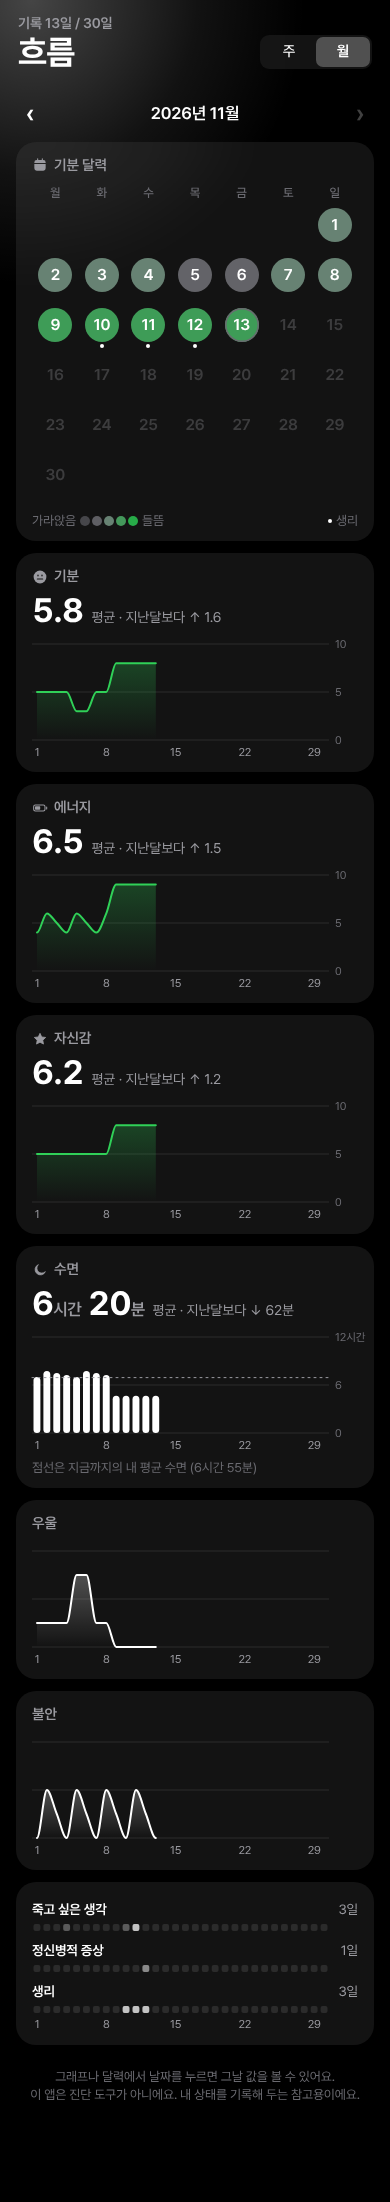
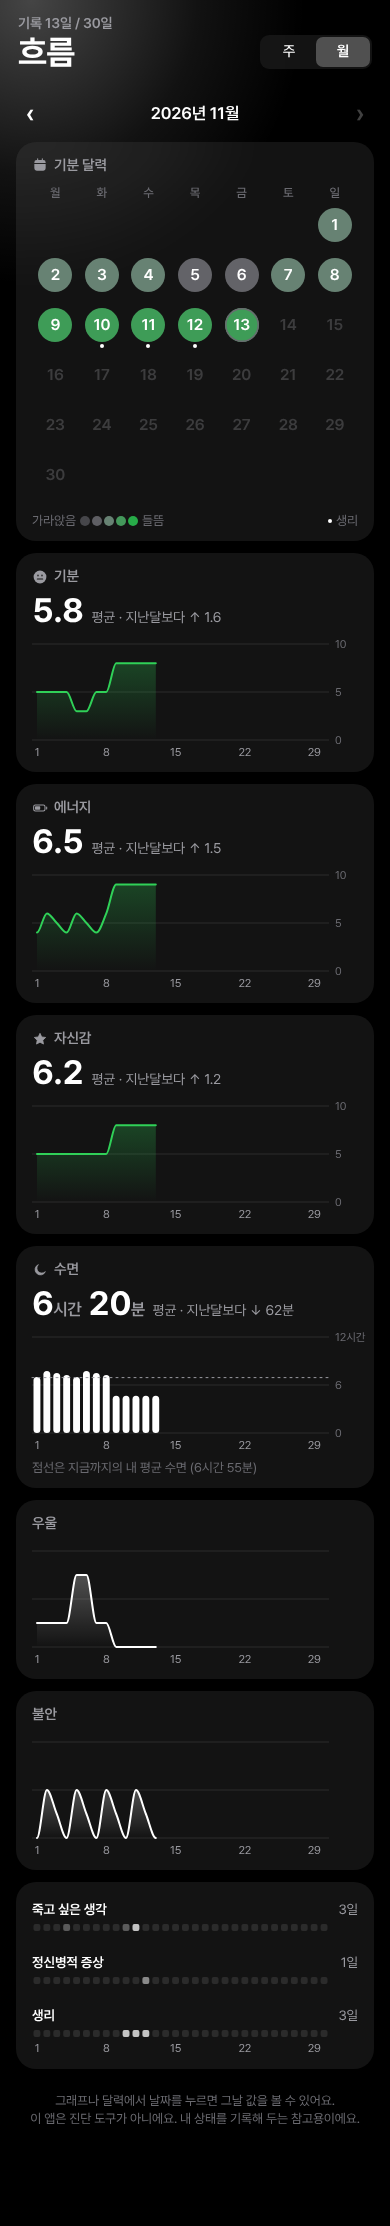
Tidemark: drop the comparison list from insights; more room between the day-square rows
The list of comparisons that went against the usual expectation is removed at the user's request, along with the calculation behind it and its phrases. The insight tab is now the 7-day reading, medication changes, and the notes and AI rows; with too few records it explains what is needed and offers the example. In trends, the rows for thoughts of dying, psychotic symptoms and period sit further apart.

Claude-Session: https://claude.ai/code/session_01Du4KAy7crrN67i73oW7iBF

diff --git a/mood/js/i18n.js b/mood/js/i18n.js
@@ -116,37 +116,16 @@ const DICT = {
   '들뜬 상태가 며칠째 이어지고 있어요. 진료 때 이야기해 보세요.': 'An elevated state has continued for several days. Consider mentioning it at your appointment.',
   '우울한 날이 2주 가까이 이어지고 있어요. 진료 때 이야기해 보세요.': 'Low days have continued for nearly two weeks. Consider mentioning it at your appointment.',
   '그런 날': 'Those days',
-  '다른 날': 'Other days',
   '먹은 날': 'Taken',
   '안 먹은 날': 'Not taken',
   '최근 7일': 'Last 7 days',
-  '적게 잔 날': 'Short nights',
-  '다른 요일': 'Other days',
-  '{0}요일': '{0}',
-  '6시간보다 적게 잔 날은 에너지가 {0} 낮았어요.': 'On days after less than 6 hours of sleep, energy was {0} lower.',
-  '6시간보다 적게 잔 날은 에너지가 {0} 높았어요.': 'On days after less than 6 hours of sleep, energy was {0} higher.',
-  '에너지가 높았던 날은 전날 밤에 {0} 덜 잤어요.': 'Before high-energy days you slept {0} less.',
-  '에너지가 높았던 날은 전날 밤에 {0} 더 잤어요.': 'Before high-energy days you slept {0} more.',
-  '기분이 가라앉은 날은 전날 밤에 {0} 덜 잤어요.': 'Before low-mood days you slept {0} less.',
-  '기분이 가라앉은 날은 전날 밤에 {0} 더 잤어요.': 'Before low-mood days you slept {0} more.',
-  '일어났을 때 피곤했던 날은 {0} 덜 잤어요.': 'On days you woke up tired you had slept {0} less.',
-  '일어났을 때 피곤했던 날은 {0} 더 잤어요.': 'On days you woke up tired you had slept {0} more.',
-  '약을 안 먹은 날은 기분이 {0} 낮았어요.': 'On days without medication, mood was {0} lower.',
-  '약을 안 먹은 날은 기분이 {0} 높았어요.': 'On days without medication, mood was {0} higher.',
-  '안정제·수면제를 먹은 날 밤에는 {0} 덜 잤어요.': 'On nights with a sedative or sleep medication you slept {0} less.',
-  '안정제·수면제를 먹은 날 밤에는 {0} 더 잤어요.': 'On nights with a sedative or sleep medication you slept {0} more.',
-  '카페인을 많이 마신 날 밤에는 {0} 덜 잤어요.': 'On nights after a lot of caffeine you slept {0} less.',
-  '카페인을 많이 마신 날 밤에는 {0} 더 잤어요.': 'On nights after a lot of caffeine you slept {0} more.',
-  '카페인을 많이 마신 날은 식욕이 {0} 낮았어요.': 'On high-caffeine days, appetite was {0} lower.',
-  '카페인을 많이 마신 날은 식욕이 {0} 높았어요.': 'On high-caffeine days, appetite was {0} higher.',
-  '생리 중인 날은 기분이 {0} 낮았어요.': 'On period days, mood was {0} lower.',
-  '생리 중인 날은 기분이 {0} 높았어요.': 'On period days, mood was {0} higher.',
-  '기분이 가장 낮은 요일은 {0}이에요.': 'Mood is lowest on {0}.',
   '더 보기': 'More',
   'AI에게 물어볼 글 복사 (최근 4주)': 'Copy text to ask an AI (last 4 weeks)',
   '인사이트': 'Insights',
   '기록 항목': 'Items to log',
   '진단명': 'Diagnoses',
+  '최근 7일 중 4일 이상 적으면 여기에 그 주를 읽은 내용이 나와요.': 'Once you log at least 4 of the last 7 days, a reading of that week appears here.',
+  '만들어 낸 예시 기록이에요. 내 기록이 아니고 저장되지 않아요.': 'This is a made-up example log. It is not yours and is not saved.',
   '최근 7일은 경조증·조증 때의 모습과 많이 겹쳐요.': 'The last 7 days overlap a lot with what hypomania or mania looks like.',
   '최근 7일은 우울 삽화 때의 모습과 많이 겹쳐요.': 'The last 7 days overlap a lot with what a depressive episode looks like.',
   '최근 7일은 기분과 에너지가 높은 날이 많아요.': 'Mood and energy were high on many of the last 7 days.',
@@ -172,7 +151,6 @@ const DICT = {
   '가라앉은 시기의 {0}은 조울증의 우울에서 조금 더 흔해요. 진료 때 이야기해 보세요.': '{0} during a low stretch is somewhat more common in bipolar depression. Mention it at your appointment.',
   '불안과 잠 문제가 함께 늘었어요. 정신병적 증상에 앞서 오기도 해요.': 'Anxiety and sleep problems have both increased. This sometimes comes before psychotic symptoms.',
   '진단이 아니에요. 진료 때 보여 주며 이야기해 보세요.': 'Not a diagnosis. Show it at your appointment and talk it through.',
-  '누구에게나 흔한 것은 뺐어요. 원인이나 진단을 뜻하지 않아요.': 'Things common to most people are left out. This does not indicate a cause or a diagnosis.',
   '{0}가지': '{0}',
   '자신감이 크게 높아짐': 'Much higher confidence',
   '우울한 기분': 'Depressed mood',
@@ -190,14 +168,6 @@ const DICT = {
   '식욕이 늘어남': 'more appetite',
   '정신병적 증상': 'psychotic symptoms',
   '해당하는 것을 여러 개 골라도 돼요. 인사이트에서 무엇을 먼저 보여 줄지에만 참고해요. 진단명에 없는 모습이 기록에 보이면 그것도 그대로 알려 줘요. 기록 항목이나 적어 둔 기록은 바뀌지 않아요.': 'Choose every one that applies. They only guide what the insights show first. If your log shows something outside the chosen diagnoses, the insights still say so. Items and logged records are not changed.',
-  '각성제를 먹은 날은 에너지가 {0} 낮았어요.': 'On days with a stimulant, energy was {0} lower.',
-  '각성제를 먹은 날은 에너지가 {0} 높았어요.': 'On days with a stimulant, energy was {0} higher.',
-  '각성제를 먹은 날 밤에는 {0} 덜 잤어요.': 'On nights after a stimulant you slept {0} less.',
-  '각성제를 먹은 날 밤에는 {0} 더 잤어요.': 'On nights after a stimulant you slept {0} more.',
-  '각성제를 먹은 날은 식욕이 {0} 낮았어요.': 'On days with a stimulant, appetite was {0} lower.',
-  '각성제를 먹은 날은 식욕이 {0} 높았어요.': 'On days with a stimulant, appetite was {0} higher.',
-  '약을 안 먹은 날은 정신병적 증상이 {0}가지 적었어요.': 'On days without medication there were {0} fewer psychotic symptoms.',
-  '약을 안 먹은 날은 정신병적 증상이 {0}가지 많았어요.': 'On days without medication there were {0} more psychotic symptoms.',
   '조울증': 'Bipolar disorder',
   '우울증': 'Depression',
   '불안장애': 'Anxiety disorder',
@@ -215,10 +185,6 @@ const DICT = {
   '이 항목을 목록에서 지울까요? 이미 적어 둔 값은 기록에 남아 있지만 화면에는 안 보여요.': 'Remove this item from the list? Values already logged stay in your records but will no longer be shown.',
   '내가 따로 적고 싶은 것을 만들 수 있어요. 했음 · 안 했음은 누르기만 하면 되고, 0~10 정도는 슬라이더로, 숫자는 단위와 함께 적어요.': 'Create your own things to log. “Done · not done” is a single tap, the 0–10 scale is a slider, and numbers are entered with a unit.',
   '“{0}” 한 날이 {1}일 있었어요': 'There were {1} days with “{0}”',
-  '“{1}” 한 다음 날은 기분이 {0} 낮았어요.': 'The day after “{1}”, mood was {0} lower.',
-  '“{1}” 한 다음 날은 기분이 {0} 높았어요.': 'The day after “{1}”, mood was {0} higher.',
-  '“{1}” 한 날 밤에는 {0} 덜 잤어요.': 'On nights after “{1}” you slept {0} less.',
-  '“{1}” 한 날 밤에는 {0} 더 잤어요.': 'On nights after “{1}” you slept {0} more.',
   '들뜬 시기': 'Elevated',
   '가라앉은 시기': 'Low',
   '평소': 'Usual',
@@ -228,9 +194,6 @@ const DICT = {
   '뒤 {0}일': '{0} days after',
   '우울이 보통 이상': 'Depression moderate+',
   '불안이 보통 이상': 'Anxiety moderate+',
-  '흔한 예상과 다르게 나온 것': 'Where your log differs from the usual expectation',
-  '예시 기록에서 흔한 예상과 다르게 나온 것': 'Where the example log differs from the usual expectation',
-  '아직 없어요. 흔한 예상대로 나온 것은 새로운 정보가 아니라서 여기에 넣지 않아요.': 'Nothing yet. Findings that match the usual expectation are not new information, so they are left out.',
   '환청': 'Hearing voices',
   '헛것이 보임': 'Seeing things',
   '누가 해치려는 느낌': 'Feeling someone means harm',
@@ -252,24 +215,6 @@ const DICT = {
   '카페인이 평소보다 많았어요': 'Caffeine was higher than usual',
   '불안이 보통 이상인 날이 {0}일 있었어요': 'Anxiety was moderate or above on {0} days',
   '생리 중이었어요': 'You were on your period',
-  '우울이 보통 이상인 날은 전날 밤에 {0} 덜 잤어요.': 'Before days with moderate or higher depression you slept {0} less.',
-  '우울이 보통 이상인 날은 전날 밤에 {0} 더 잤어요.': 'Before days with moderate or higher depression you slept {0} more.',
-  '불안이 보통 이상인 날은 전날 밤에 {0} 덜 잤어요.': 'Before days with moderate or higher anxiety you slept {0} less.',
-  '불안이 보통 이상인 날은 전날 밤에 {0} 더 잤어요.': 'Before days with moderate or higher anxiety you slept {0} more.',
-  '정신병적 증상이 있던 날은 전날 밤에 {0} 덜 잤어요.': 'Before days with psychotic symptoms you slept {0} less.',
-  '정신병적 증상이 있던 날은 전날 밤에 {0} 더 잤어요.': 'Before days with psychotic symptoms you slept {0} more.',
-  '죽고 싶은 생각이 있던 날은 전날 밤에 {0} 덜 잤어요.': 'Before days with thoughts of dying you slept {0} less.',
-  '죽고 싶은 생각이 있던 날은 전날 밤에 {0} 더 잤어요.': 'Before days with thoughts of dying you slept {0} more.',
-  '정신병적 증상이 있던 날은 에너지가 {0} 낮았어요.': 'On days with psychotic symptoms, energy was {0} lower.',
-  '정신병적 증상이 있던 날은 에너지가 {0} 높았어요.': 'On days with psychotic symptoms, energy was {0} higher.',
-  '정신병적 증상이 있던 날은 기분이 {0} 낮았어요.': 'On days with psychotic symptoms, mood was {0} lower.',
-  '정신병적 증상이 있던 날은 기분이 {0} 높았어요.': 'On days with psychotic symptoms, mood was {0} higher.',
-  '불안이 보통 이상인 날은 우울이 {0}단계 낮았어요.': 'On days with moderate or higher anxiety, depression was {0} levels lower.',
-  '불안이 보통 이상인 날은 우울이 {0}단계 높았어요.': 'On days with moderate or higher anxiety, depression was {0} levels higher.',
-  '정신병적 증상이 있던 날은 불안이 {0}단계 낮았어요.': 'On days with psychotic symptoms, anxiety was {0} levels lower.',
-  '정신병적 증상이 있던 날은 불안이 {0}단계 높았어요.': 'On days with psychotic symptoms, anxiety was {0} levels higher.',
-  '불안이 보통 이상인 날은 카페인이 {0} 적었어요.': 'On days with moderate or higher anxiety, caffeine was {0} lower.',
-  '불안이 보통 이상인 날은 카페인이 {0} 많았어요.': 'On days with moderate or higher anxiety, caffeine was {0} higher.',
   '최근 7일은 들뜬 모습과 가라앉은 모습이 함께 보여요.': 'The last 7 days show both elevated and low features.',
   '부작용': 'Side effects',
   '졸림': 'Sleepy',
@@ -302,11 +247,8 @@ const DICT = {
   '적어 두면 “진료 후” 기간으로 지난 진료부터의 흐름을 볼 수 있어요.': 'Once saved, the “Since visit” range shows everything from your last appointment.',
   '무엇이 바뀌었는지 적어 주세요': 'Please write what changed',
   '안 쓰는 항목을 끄면 기록·오늘·흐름·진료 화면에서 안 보여요. 이미 적어 둔 값은 지워지지 않고, 다시 켜면 그대로 나와요.': 'Turn off items you don’t use and they disappear from the log, today, trends and clinic screens. Values you already logged are kept and come back when you turn the item on again.',
-  '기록이 {0}일 이상 쌓이면 패턴을 찾아 보여 드려요. 지금은 {1}일이에요.': 'Patterns appear once you have {0} or more days logged. You have {1} so far.',
   '예시로 미리 보기': 'Preview with an example',
   '예시 닫기': 'Close the example',
-  '만들어 낸 예시 기록이에요. 내 기록이 아니고 저장되지 않아요. 내 기록이 쌓이면 이 자리에 내 숫자가 나와요.': 'This is a made-up example log. It is not yours and is not saved. Your own numbers appear here once you have logged enough.',
-  '아직 뚜렷한 패턴이 보이지 않아요. 기록이 더 쌓이면 다시 살펴볼게요.': 'No clear pattern yet. This will update as you log more.',
   '복사한 글을 Claude나 ChatGPT 같은 AI 앱에 붙여 넣으면 기록 전체를 읽고 패턴을 정리해 줘요. 붙여 넣는 순간 그 기록은 해당 AI 서비스로 전송돼요.': 'Paste the copied text into an AI app such as Claude or ChatGPT and it can read the whole log and summarise patterns. Once pasted, that log is sent to that AI service.',
   '복사했어요. AI 앱에 붙여 넣으세요': 'Copied. Paste it into an AI app',
   '몬스터': 'Monster',

diff --git a/mood/js/analysis.js b/mood/js/analysis.js
@@ -1,14 +1,12 @@
 // 초기 신호 · 인사이트 · 진료용 요약 계산 (전부 이 폰 안에서)
-import { SIGNS, STIMULANTS, cafMg, customText, drinkText, fxName, fxNames, psyName, psyNames } from './constants.js';
-import { WD, addDays, durText, md, parse, today } from './dates.js';
+import { SIGNS, cafMg, customText, drinkText, fxName, fxNames, psyName, psyNames } from './constants.js';
+import { addDays, durText, md, parse, today } from './dates.js';
 import { F, T } from './i18n.js';
 import { aided, medsFor, medsText } from './meds.js';
 import { customDefs, db, usesOn } from './store.js';
 
 // ---------- 초기 신호 · 인사이트 (전부 이 폰 안에서 계산) ----------
 export const avg = (a) => (a.length ? a.reduce((x, y) => x + y, 0) / a.length : null);
-// 인사이트가 나오기 시작하는 기록 일수
-export const INSIGHT_MIN_DAYS = 5;
 
 export function signals() {
   const out = [], t = today();
@@ -230,107 +228,6 @@ export function medChanges() {
         [T('우울이 보통 이상'), count(b, (e) => e.dep >= 2), count(a, (e) => e.dep >= 2)], [T('불안이 보통 이상'), count(b, (e) => e.anx >= 2), count(a, (e) => e.anx >= 2)]],
     };
   }).filter(Boolean).reverse();
-}
-
-// 인사이트: 두 묶음의 평균을 견준 관찰들. 차이가 큰 것부터 나온다.
-// 누구에게나 흔한 쪽으로 나온 것(카페인을 많이 마시면 덜 잔다 등)은 새로운 정보가 아니라서 뺀다:
-// say의 세 번째 값이 "흔히 예상되는 쪽"(0 = 앞 문장, 1 = 뒤 문장)이고, 기록이 그 반대로 나왔을 때만 넣는다. 예상이 따로 없는 것은 그대로 넣는다.
-//   { text: 한 줄 결론, a: [이름, 값, 날 수], b: [이름, 값, 날 수] }
-// 차이가 뚜렷할 때만 넣는다. entries를 주면 그 기록으로 계산한다 (예시 기록 미리 보기).
-// 약에 관한 비교는 내 약 기록을 보기 때문에 내 기록일 때만 넣는다.
-export function insights(entries = db.entries) {
-  const all = Object.keys(entries).sort().map((k) => entries[k]), out = [], mine = entries === db.entries;
-  if (all.length < INSIGHT_MIN_DAYS) return out;
-  const mean = (list, key) => avg(list.map((e) => e[key]));
-  const dur = (m) => durText(Math.round(m)), num = (x) => x.toFixed(1);
-  // 두 묶음(각 min일 이상)의 평균이 gap 이상 차이 나면 넣는다. say는 [앞쪽이 낮을 때 문장, 높을 때 문장], {0}에 차이가 들어간다.
-  // unit은 "한 칸"의 크기(수면 60분, 점수 1점)로, 서로 다른 항목의 차이를 같은 잣대로 줄 세울 때 쓴다.
-  // dx: 이 비교가 특히 관련 있는 진단명들. 사용자가 고른 진단명과 겹치면 순서를 앞으로 당긴다 (1.5배).
-  const chosen = usesOn(), boost = (dx) => (dx && dx.some((k) => chosen.includes(k)) ? 1.5 : 1);
-  const compare = (key, a, b, labels, { min = 3, gap, fmt, unit, dx }, say) => {
-    if (a.length < min || b.length < min) return;
-    const x = mean(a, key), y = mean(b, key), d = Math.abs(x - y);
-    if (d < gap || say[2] === (x < y ? 0 : 1)) return;
-    out.push({ text: F(say[x < y ? 0 : 1], fmt(d)), a: [labels[0], fmt(x), a.length], b: [labels[1], fmt(y), b.length], weight: d / unit * boost(dx) });
-  };
-  const sleep = { gap: 20, fmt: dur, unit: 60 }, score = { gap: 0.8, fmt: num, unit: 1 }, days = [T('그런 날'), T('다른 날')];
-  // 항목을 따로따로 적을 수 있어서 빈 값(null)이 섞여 있다. null은 비교에서 0처럼 굴기 때문에, 값이 있는 날만 골라서 나눈다.
-  const has = (key) => (e) => e[key] != null;
-  const sl = all.filter(has('sleepMin')), slE = sl.filter(has('energy')), slM = sl.filter(has('mood')), withMood = all.filter(has('mood'));
-  const night = (e) => entries[addDays(e.date, 1)];   // 그날 밤의 잠과 다음 날 기분은 다음 날 기록에 있다
-
-  // 잠과 에너지·기분
-  compare('energy', slE.filter((e) => e.sleepMin < 360), slE.filter((e) => e.sleepMin >= 360), [T('적게 잔 날'), T('다른 날')], { ...score, dx: ['bipolar'] },
-    ['6시간보다 적게 잔 날은 에너지가 {0} 낮았어요.', '6시간보다 적게 잔 날은 에너지가 {0} 높았어요.', 0]);
-  compare('sleepMin', slE.filter((e) => e.energy >= 7), slE.filter((e) => e.energy < 7), days, { ...sleep, dx: ['bipolar'] },
-    ['에너지가 높았던 날은 전날 밤에 {0} 덜 잤어요.', '에너지가 높았던 날은 전날 밤에 {0} 더 잤어요.', 1]);
-  compare('sleepMin', slM.filter((e) => e.mood <= 3), slM.filter((e) => e.mood > 3), days, { ...sleep, dx: ['depression', 'bipolar'] },
-    ['기분이 가라앉은 날은 전날 밤에 {0} 덜 잤어요.', '기분이 가라앉은 날은 전날 밤에 {0} 더 잤어요.', 0]);
-  compare('sleepMin', sl.filter((e) => e.tired), sl.filter((e) => !e.tired), days, sleep,
-    ['일어났을 때 피곤했던 날은 {0} 덜 잤어요.', '일어났을 때 피곤했던 날은 {0} 더 잤어요.', 0]);
-  // 진단명을 골랐을 때만 넣는 비교들 (내 기록일 때만)
-  if (mine && chosen.includes('adhd') && db.meds.some((m) => STIMULANTS.includes(m.name))) {
-    const took = (e) => medsFor(e.date).some((m) => STIMULANTS.includes(m.name)), pair = [T('먹은 날'), T('안 먹은 날')], adhd = { dx: ['adhd'] };
-    compare('energy', ...[all.filter(has('energy'))].flatMap((l) => [l.filter(took), l.filter((e) => !took(e))]), pair, { ...score, ...adhd },
-      ['각성제를 먹은 날은 에너지가 {0} 낮았어요.', '각성제를 먹은 날은 에너지가 {0} 높았어요.']);
-    const nights = all.filter((e) => night(e) && night(e).sleepMin != null);
-    compare('sleepMin', nights.filter(took).map(night), nights.filter((e) => !took(e)).map(night), pair, { ...sleep, ...adhd },
-      ['각성제를 먹은 날 밤에는 {0} 덜 잤어요.', '각성제를 먹은 날 밤에는 {0} 더 잤어요.']);
-    compare('appetite', ...[all.filter(has('appetite'))].flatMap((l) => [l.filter(took), l.filter((e) => !took(e))]), pair, { ...score, gap: 1, ...adhd },
-      ['각성제를 먹은 날은 식욕이 {0} 낮았어요.', '각성제를 먹은 날은 식욕이 {0} 높았어요.']);
-  }
-  if (mine && chosen.includes('psychosis') && db.meds.length) {
-    compare('psy', all.filter((e) => !medsFor(e.date).length), all.filter((e) => medsFor(e.date).length), [T('안 먹은 날'), T('먹은 날')], { gap: 0.3, fmt: num, unit: 0.5, dx: ['psychosis'] },
-      ['약을 안 먹은 날은 정신병적 증상이 {0}가지 적었어요.', '약을 안 먹은 날은 정신병적 증상이 {0}가지 많았어요.']);
-  }
-  // 약
-  if (mine && db.meds.length) {
-    compare('mood', withMood.filter((e) => !medsFor(e.date).length), withMood.filter((e) => medsFor(e.date).length), [T('안 먹은 날'), T('먹은 날')], score,
-      ['약을 안 먹은 날은 기분이 {0} 낮았어요.', '약을 안 먹은 날은 기분이 {0} 높았어요.', 0]);
-    compare('sleepMin', sl.filter(aided), sl.filter((e) => !aided(e)), [T('먹은 날'), T('안 먹은 날')], { ...sleep, min: 2 },
-      ['안정제·수면제를 먹은 날 밤에는 {0} 덜 잤어요.', '안정제·수면제를 먹은 날 밤에는 {0} 더 잤어요.', 1]);
-  }
-  // 카페인 · 술 · 운동 · 생리
-  const caf = all.filter((e) => e.caffeine != null && night(e) && night(e).sleepMin != null);
-  compare('sleepMin', caf.filter((e) => e.caffeine >= 7).map(night), caf.filter((e) => e.caffeine < 7).map(night), days, sleep,
-    ['카페인을 많이 마신 날 밤에는 {0} 덜 잤어요.', '카페인을 많이 마신 날 밤에는 {0} 더 잤어요.', 0]);
-  const ap = all.filter((e) => e.caffeine != null && e.appetite != null);
-  compare('appetite', ap.filter((e) => e.caffeine >= 7), ap.filter((e) => e.caffeine < 7), days, { ...score, gap: 1 },
-    ['카페인을 많이 마신 날은 식욕이 {0} 낮았어요.', '카페인을 많이 마신 날은 식욕이 {0} 높았어요.', 0]);
-  // 내 항목 가운데 했음/안 했음 항목: 한 다음 날의 기분, 한 날 밤의 잠 (내 기록일 때만. 흔한 예상은 따로 두지 않는다)
-  if (mine) customDefs().filter((c) => c.type === 'check').forEach((c) => {
-    const did = (e) => !!(e.custom && e.custom[c.id]), named = (text) => F(text, '{0}', c.name);
-    const nextMood = all.filter((e) => night(e) && night(e).mood != null), nextSleep = all.filter((e) => night(e) && night(e).sleepMin != null);
-    compare('mood', nextMood.filter(did).map(night), nextMood.filter((e) => !did(e)).map(night), days, score,
-      [named('“{1}” 한 다음 날은 기분이 {0} 낮았어요.'), named('“{1}” 한 다음 날은 기분이 {0} 높았어요.')]);
-    compare('sleepMin', nextSleep.filter(did).map(night), nextSleep.filter((e) => !did(e)).map(night), days, sleep,
-      [named('“{1}” 한 날 밤에는 {0} 덜 잤어요.'), named('“{1}” 한 날 밤에는 {0} 더 잤어요.')]);
-  });
-  compare('mood', withMood.filter((e) => e.period), withMood.filter((e) => !e.period), [T('생리 중'), T('다른 날')], score,
-    ['생리 중인 날은 기분이 {0} 낮았어요.', '생리 중인 날은 기분이 {0} 높았어요.', 0]);
-  // 기분이 가장 낮은 요일 (요일마다 2일 이상 적었을 때)
-  const byDay = WD().map((name, d) => [name, withMood.filter((e) => parse(e.date).getDay() === d)]).filter(([, list]) => list.length >= 2);
-  if (byDay.length >= 4) {
-    const [name, low] = byDay.reduce((m, x) => (mean(x[1], 'mood') < mean(m[1], 'mood') ? x : m));
-    const rest = withMood.filter((e) => !low.includes(e)), d = mean(rest, 'mood') - mean(low, 'mood'), day = F('{0}요일', name);
-    if (d >= 1) out.push({ text: F('기분이 가장 낮은 요일은 {0}이에요.', day), a: [day, num(mean(low, 'mood')), low.length], b: [T('다른 요일'), num(mean(rest, 'mood')), rest.length], weight: d });
-  }
-  // 증상이 있던 날과 없던 날: 전날 밤 잠, 그리고 증상끼리 같이 움직이는지
-  const level = { gap: 0.8, fmt: num, unit: 1 };
-  const split = (list, test) => [list.filter(test), list.filter((e) => !test(e))];
-  const isDep = (e) => e.dep >= 2, isAnx = (e) => e.anx >= 2, isPsy = (e) => e.psy >= 1, isSi = (e) => e.si >= 1;
-  compare('sleepMin', ...split(sl.filter(has('dep')), isDep), days, { ...sleep, dx: ['depression', 'bipolar'] }, ['우울이 보통 이상인 날은 전날 밤에 {0} 덜 잤어요.', '우울이 보통 이상인 날은 전날 밤에 {0} 더 잤어요.']);
-  compare('sleepMin', ...split(sl.filter(has('anx')), isAnx), days, { ...sleep, dx: ['anxiety'] }, ['불안이 보통 이상인 날은 전날 밤에 {0} 덜 잤어요.', '불안이 보통 이상인 날은 전날 밤에 {0} 더 잤어요.', 0]);
-  compare('sleepMin', ...split(sl, isPsy), days, { ...sleep, dx: ['psychosis'] }, ['정신병적 증상이 있던 날은 전날 밤에 {0} 덜 잤어요.', '정신병적 증상이 있던 날은 전날 밤에 {0} 더 잤어요.', 0]);
-  compare('sleepMin', ...split(sl.filter(has('si')), isSi), days, sleep, ['죽고 싶은 생각이 있던 날은 전날 밤에 {0} 덜 잤어요.', '죽고 싶은 생각이 있던 날은 전날 밤에 {0} 더 잤어요.']);
-  const both = (a, b) => all.filter((e) => e[a] != null && e[b] != null);
-  compare('energy', ...split(all.filter(has('energy')), isPsy), days, { ...score, dx: ['psychosis'] }, ['정신병적 증상이 있던 날은 에너지가 {0} 낮았어요.', '정신병적 증상이 있던 날은 에너지가 {0} 높았어요.']);
-  compare('mood', ...split(withMood, isPsy), days, { ...score, dx: ['psychosis'] }, ['정신병적 증상이 있던 날은 기분이 {0} 낮았어요.', '정신병적 증상이 있던 날은 기분이 {0} 높았어요.']);
-  compare('dep', ...split(both('anx', 'dep'), isAnx), days, { ...level, dx: ['anxiety', 'depression'] }, ['불안이 보통 이상인 날은 우울이 {0}단계 낮았어요.', '불안이 보통 이상인 날은 우울이 {0}단계 높았어요.', 1]);
-  compare('anx', ...split(all.filter(has('anx')), isPsy), days, { ...level, dx: ['psychosis'] }, ['정신병적 증상이 있던 날은 불안이 {0}단계 낮았어요.', '정신병적 증상이 있던 날은 불안이 {0}단계 높았어요.', 1]);
-  compare('caffeine', ...split(both('anx', 'caffeine'), isAnx), days, { ...score, gap: 1, dx: ['anxiety'] }, ['불안이 보통 이상인 날은 카페인이 {0} 적었어요.', '불안이 보통 이상인 날은 카페인이 {0} 많았어요.', 1]);
-  // 차이가 큰 것부터 세 개까지만 (사용자가 짧게 보고 싶어 함)
-  return out.sort((p, q) => q.weight - p.weight).slice(0, 3);
 }
 
 // AI 앱에 붙여 넣을 수 있는 최근 4주 요약 글

diff --git a/mood/js/views/insight.js b/mood/js/views/insight.js
@@ -1,7 +1,7 @@
-// 인사이트 화면: 최근 7일을 종합해서 읽은 것(짧게), 약을 바꾼 앞뒤, 흔한 예상과 다르게 나온 비교 세 개, 메모·AI로 가는 줄.
-// 누구에게나 해당하는 뻔한 말은 넣지 않고, 길게 늘어놓지 않는다 (사용자가 지적, 2026-11-13).
+// 인사이트 화면: 최근 7일을 종합해서 읽은 것(짧게), 약을 바꾼 앞뒤, 메모·AI로 가는 줄.
+// 길게 늘어놓지 않는다: 평균끼리 견준 비교 목록은 뻔하거나 쓸모없다고 해서 뺐다 (사용자가 정함, 2026-11-13).
 // 기록이 아직 적으면 예시 기록으로 어떤 것이 나오는지 미리 볼 수 있다 (ui.insightDemo).
-import { INSIGHT_MIN_DAYS, insights, medChanges, recentState } from '../analysis.js';
+import { medChanges, recentState } from '../analysis.js';
 import { md, parse } from '../dates.js';
 import { app, esc } from '../dom.js';
 import { F, T } from '../i18n.js';
@@ -10,36 +10,26 @@ import { sampleEntries } from '../sample.js';
 import { ui } from '../state.js';
 import { db } from '../store.js';
 
-// 관찰 한 줄: 결론 문장, 그 아래에 근거인 두 평균을 작게 한 줄로
-const side = ([name, value, n]) => `${name} ${value} (${F('{0}일', n)})`;
-const compareRow = ({ text, a, b }) => `<div class="li cmp"><div class="cmp-t">${text}</div><div class="cmp-s">${side(a)} · ${side(b)}</div></div>`;
-
 const bullets = (list) => (list.length ? `<ul>${list.map((x) => `<li>${x}</li>`).join('')}</ul>` : '');
+// 표 한 줄: 첫 칸은 이름, 나머지는 값
+const tr = (cells, head) => `<div class="tr${head ? ' th' : ''}">${cells.map((c) => `<span>${c}</span>`).join('')}</div>`;
 
 export function viewInsight() {
-  const n = Object.keys(db.entries).length, mine = insights();
-  const demo = ui.insightDemo && !mine.length, list = demo ? insights(sampleEntries()) : mine;
-  const state = recentState(demo ? sampleEntries() : db.entries), changes = demo ? [] : medChanges();
-  // 표 한 줄: 첫 칸은 이름, 나머지는 값
-  const tr = (cells, head) => `<div class="tr${head ? ' th' : ''}">${cells.map((c) => `<span>${c}</span>`).join('')}</div>`;
-  const empty = `<div class="li say mut">${n < INSIGHT_MIN_DAYS ? F('기록이 {0}일 이상 쌓이면 패턴을 찾아 보여 드려요. 지금은 {1}일이에요.', INSIGHT_MIN_DAYS, n) : T('아직 뚜렷한 패턴이 보이지 않아요. 기록이 더 쌓이면 다시 살펴볼게요.')}</div>
-    <button class="li add" data-act="insightDemo">${IC.spark}&nbsp; ${T('예시로 미리 보기')}</button>`;
+  const n = Object.keys(db.entries).length, mine = recentState();
+  const demo = ui.insightDemo && !mine, state = demo ? recentState(sampleEntries()) : mine, changes = demo ? [] : medChanges();
   app.innerHTML = `
     <header class="top"><div><div class="over">${F('기록 {0}일', n)}</div><h1>${T('인사이트')}</h1></div></header>
-    ${state ? `<div class="sec">${demo ? T('예시 기록의 최근 7일') : T('최근 7일')}</div>
-    <section class="card state"><b>${state.title}</b>
+    <div class="sec">${demo ? T('예시 기록의 최근 7일') : T('최근 7일')}</div>
+    ${state ? `<section class="card state"><b>${state.title}</b>
       ${state.flow ? `<div class="flow">${state.flow}</div>` : ''}
       ${bullets(state.points)}
       ${state.lead ? `<div class="flow">${state.lead}</div>` : ''}
       ${state.notes.map((x) => `<div class="beyond">${x}</div>`).join('')}
-      <p>${T('진단이 아니에요. 진료 때 보여 주며 이야기해 보세요.')}</p></section>` : ''}
+      <p>${demo ? T('만들어 낸 예시 기록이에요. 내 기록이 아니고 저장되지 않아요.') : T('진단이 아니에요. 진료 때 보여 주며 이야기해 보세요.')}</p></section>`
+    : `<section class="card list"><div class="li say mut">${T('최근 7일 중 4일 이상 적으면 여기에 그 주를 읽은 내용이 나와요.')}</div></section>`}
+    ${mine ? '' : `<section class="card list"><button class="li add${demo ? ' dim' : ''}" data-act="insightDemo">${demo ? T('예시 닫기') : `${IC.spark}&nbsp; ${T('예시로 미리 보기')}`}</button></section>`}
     ${changes.map((c) => `<div class="sec">${F('약을 바꾼 뒤 · {0}', md(parse(c.date)))}</div>
     <section class="card tbl">${c.text ? `<div class="tbl-t">${esc(c.text)}</div>` : ''}${tr(['', T('앞 2주'), F('뒤 {0}일', c.after)], true)}${c.rows.map((r) => tr(r)).join('')}</section>`).join('')}
-    <div class="sec">${demo ? T('예시 기록에서 흔한 예상과 다르게 나온 것') : T('흔한 예상과 다르게 나온 것')}</div>
-    <section class="card list">${list.length ? list.map(compareRow).join('') : n < INSIGHT_MIN_DAYS && !demo ? empty : `<div class="li say mut">${T('아직 없어요. 흔한 예상대로 나온 것은 새로운 정보가 아니라서 여기에 넣지 않아요.')}</div>`}
-      ${demo ? `<button class="li add dim" data-act="insightDemo">${T('예시 닫기')}</button>` : ''}</section>
-    ${demo ? `<p class="secnote">${T('만들어 낸 예시 기록이에요. 내 기록이 아니고 저장되지 않아요. 내 기록이 쌓이면 이 자리에 내 숫자가 나와요.')}</p>`
-    : list.length ? `<p class="secnote">${T('누구에게나 흔한 것은 뺐어요. 원인이나 진단을 뜻하지 않아요.')}</p>` : ''}
     <div class="sec">${T('더 보기')}</div>
     <section class="card list">
       <button class="li add" data-act="notes">${IC.note}&nbsp; ${T('메모 모아 보기')}</button>

diff --git a/mood/tests/smoke.js b/mood/tests/smoke.js
@@ -172,22 +172,20 @@ function seed() {
   await page.click('[data-tab=insight]');
   const mineBefore = JSON.stringify((await store()).entries);
   await page.click('[data-act=insightDemo]');
-  check('기록이 적을 때 예시로 인사이트를 미리 봄 (내 기록은 그대로)', (await page.$$('.li.cmp')).length >= 3 && (await text('#app')).includes('예시 기록') && JSON.stringify((await store()).entries) === mineBefore);
+  check('기록이 적을 때 예시로 인사이트를 미리 봄 (내 기록은 그대로)', (await page.$$('.state li')).length >= 2 && (await text('#app')).includes('예시 기록') && JSON.stringify((await store()).entries) === mineBefore);
   await page.click('[data-act=insightDemo]');
-  check('예시를 닫으면 원래 안내로 돌아옴', (await page.$$('.li.cmp')).length === 0);
+  check('예시를 닫으면 원래 안내로 돌아옴', (await page.$$('.state')).length === 0 && (await text('#app')).includes('4일 이상 적으면'));
   await page.click('[data-tab=today]');
   await put(seed());
   check('오늘 화면에는 인사이트 배너를 띄우지 않음', (await page.$$('#app .signal')).length === 0);
   await page.click('[data-tab=insight]');
-  const says = await page.$$eval('.li.cmp', (x) => x.map((el) => el.textContent));
-  check('인사이트는 짧게: 시기 목록·시기별 표는 없고 비교는 세 개까지', !(await text('#app')).includes('지금까지의 시기') && (await page.$$('.li.cmp')).length <= 3 && (await page.$$('.state li')).length <= 6);
+  check('인사이트는 짧게: 시기 목록·비교 목록은 없고 근거는 여섯 줄까지', !(await text('#app')).includes('지금까지의 시기') && (await page.$$('.li.cmp')).length === 0 && (await page.$$('.state li')).length <= 6);
   // 잠자는 시간대가 당겨진 기록을 넣으면 그 점을 짚어 준다 (최근 연구 반영)
   await page.evaluate(([k]) => { const d = JSON.parse(localStorage.getItem(k)); Object.keys(d.entries).sort().reverse().forEach((date, i) => { d.entries[date].bed = i < 5 ? '22:00' : '01:00'; }); localStorage.setItem(k, JSON.stringify(d)); }, [KEY]);
   await page.reload(); await page.waitForSelector('h1'); await page.click('[data-tab=insight]');
   check('최근 7일 읽기: 잠자는 시간대가 당겨진 것을 짚어 줌', (await text('.state')).includes('잠자는 시간대가 평소보다') && (await text('.state')).includes('당겨짐'));
   check('최근 7일 읽기: 언제부터 며칠째인지도 말함',(await text('.state .flow')).includes('일째') && (await text('.state .flow')).includes('경조증 기준 기간(4일)을 넘음'));
   check('최근 7일 읽기: 들뜬 날이 이어지면 겹치는 점을 근거와 함께 보여 줌', (await text('.state')).includes('경조증·조증 때의 모습과 많이 겹쳐요') && (await text('.state')).includes('경조증 기준 증상 7가지 중') && (await text('.state')).includes('진단이 아니에요'));
-  check('인사이트: 두 숫자 비교', says.some((s) => s.includes('에너지가 높았던 날') && s.includes('그런 날') && s.includes('다른 날')), says.join(' / '));
   await page.click('[data-tab=trend]');
   check('주 그래프', (await page.$$('.plot svg')).length >= 4);
   await page.click('[data-mode=month]');

diff --git a/mood/app.css b/mood/app.css
@@ -243,6 +243,7 @@ ol.steps li { margin: 3px 0; }
 .mnote { color: var(--faint); font-size: calc(11.5px * var(--fs, 1.12)); margin-top: 6px; }
 .strips { margin-top: -4px; }
 .srow { margin-top: 8px; }
+.srow + .srow { margin-top: 20px; }
 .sh { display: flex; justify-content: space-between; margin: 0 0 4px; font-size: calc(12px * var(--fs, 1.12)); color: var(--muted); }
 .sh span:first-child { color: var(--text); font-weight: 600; }
 .calkey { display: flex; justify-content: space-between; align-items: center; margin-top: 10px; }
@@ -413,7 +414,3 @@ input[type=date] { border: 0; outline: none; background: var(--card2); color: va
 .tr.th span { font-family: inherit; font-weight: 500; color: var(--muted); font-size: calc(12px * var(--fs, 1.12)); }
 .tr small { display: block; color: var(--faint); font-weight: 400; }
 
-/* 인사이트: 결론 한 줄과 그 근거인 두 평균 */
-.li.cmp { display: block; padding: 12px 16px; }
-.cmp-t { font-size: calc(15px * var(--fs, 1.12)); font-weight: 500; line-height: 1.4; }
-.cmp-s { color: var(--muted); font-size: calc(12px * var(--fs, 1.12)); margin-top: 4px; }

diff --git a/mood/js/constants.js b/mood/js/constants.js
@@ -21,8 +21,6 @@ export const ITEMS = [
 // 진단명: 해당하는 것을 여러 개 고를 수 있다 (settings.use). 인사이트에서 무엇을 먼저 보여 주고 어떻게 말할지에만 참고한다.
 // 기록 항목을 켜고 끄는 데에는 쓰지 않는다 (그렇게 만들었다가 사용자가 뺐다, 2026-11-13).
 export const DIAGNOSES = [['bipolar', T('조울증')], ['depression', T('우울증')], ['anxiety', T('불안장애')], ['psychosis', T('조현병')], ['adhd', 'ADHD']];
-// 각성제 (ADHD 약). ADHD를 골랐을 때 먹은 날과 안 먹은 날을 견준다.
-export const STIMULANTS = ['콘서타', '메디키넷', '페니드', '비스펜틴'];
 // 부작용: 그날 겪은 것을 눌러서 적는다 (entry.fx = { 열쇠: true })
 // 목록에 없는 것은 직접 적어 넣을 수 있다: 열쇠가 'c:이름'이고, 적어 넣은 이름들은 settings.fxCustom에 남아 다음에도 딱지로 뜬다.
 export const SIDE_EFFECTS = [

diff --git a/mood/sw.js b/mood/sw.js
@@ -1,7 +1,7 @@
 // 오프라인에서도 열리도록 앱 파일을 저장해 둔다.
 // 인터넷이 될 때는 항상 최신 파일을 먼저 받아오고, 안 될 때만 저장본을 쓴다.
 // 앱 파일을 바꿔서 올릴 때마다 CACHE 숫자를 하나 올린다. js/ 에 파일을 더하면 JS 목록에도 더한다.
-const CACHE = 'tide-v81';
+const CACHE = 'tide-v82';
 const JS = ['main', 'config', 'i18n', 'constants', 'store', 'dates', 'theme', 'icons', 'dom', 'state', 'meds', 'analysis', 'sample', 'files', 'render', 'swipe', 'lock',
   'views/today', 'views/trend', 'views/insight', 'views/record', 'views/settings', 'views/clinic', 'views/notes'];
 const FILES = ['./', 'index.html', 'app.css', 'manifest.webmanifest',

diff --git a/mood/js/config.js b/mood/js/config.js
@@ -3,4 +3,4 @@
 export const KEY = 'tide.v1', OLD_KEY = 'harugyeol.v1';
 
 // 설정 화면 맨 아래에 보이는 번호. 올릴 때마다 sw.js의 CACHE 숫자와 같이 하나 올린다.
-export const VERSION = 81;
+export const VERSION = 82;
